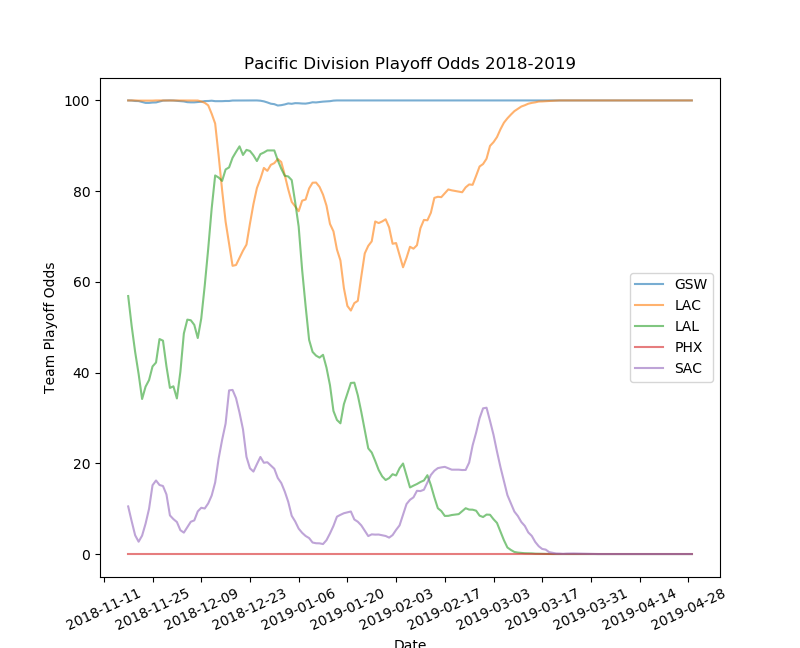
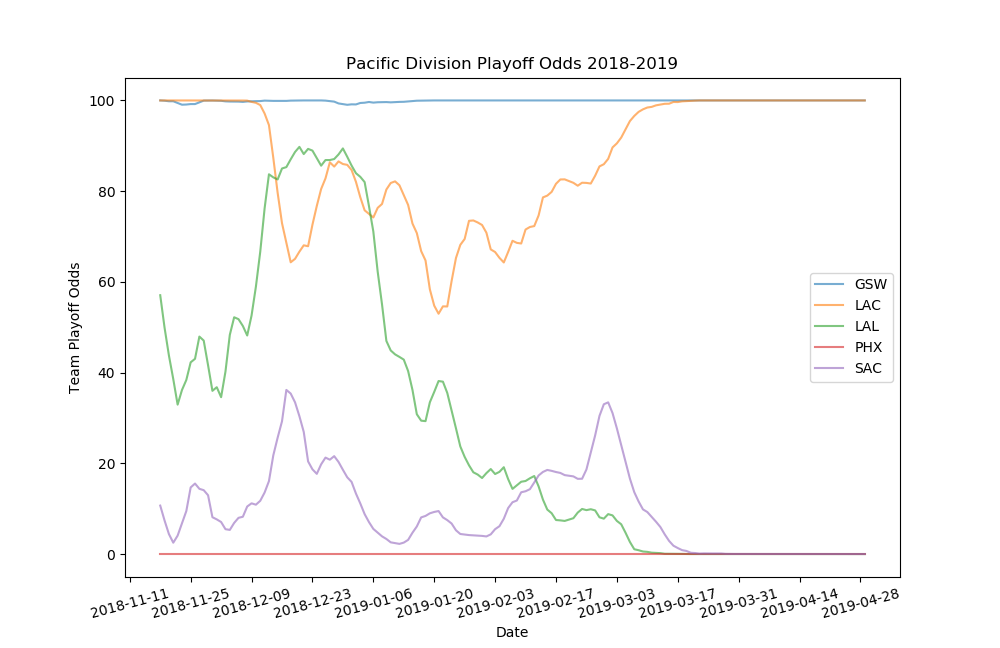
revising README with sample table

diff --git a/prediction_table.py b/prediction_table.py
@@ -128,9 +128,9 @@ def playoff_odds_print(team_results):
 #Print your results:
 
 if __name__=="__main__":
-    start_datetime = datetime(2006,10,1)
-    end_datetime = datetime(2007,4,30)
-    season_year = 2007
+    start_datetime = datetime(2018,10,1)
+    end_datetime = datetime(2019,1,1)
+    season_year = 2019
     #the following mode is a "standard test mode" - enter start of season and last known game
     #then predict remaining games.
     results = playoff_odds_calc(start_datetime, end_datetime, season_year)

diff --git a/plot_season_odds.py b/plot_season_odds.py
@@ -55,7 +55,7 @@ while b < end:
     
 odds_array = np.asarray(odds_list)
 
-plt.figure(figsize=(8,8))
+plt.figure(figsize=(10,10))
 plt.ylim(-5,105) #so 100 shows up on the graph, and 0 (thanks V.)
 
 #Get team data
@@ -75,6 +75,6 @@ plt.xlabel('Date')
 plt.ylabel('Team Playoff Odds')
 plt.title(division_name+' Division Playoff Odds '+str(season_year-1)+'-'+str(season_year))
 plt.legend()
-plt.xticks(rotation=25)
+plt.xticks(rotation=15)
 plt.savefig('test.png')
 plt.show()

diff --git a/README.md b/README.md
@@ -3,9 +3,51 @@
 ## Summary 
 A set of scripts to calculate ratings for teams, based on point differential and strength of schedule, and then use those ratings to determine playoff odds over a given season. 
 
+	
+	Playoff odds for the 2019 season as of Jan 01 2019
+	============  =============  ===========  ===========
+	Conference    Team           Avg. Wins    Playoff %
+	============  =============  ===========  ===========
+	E             Bucks          63.9         100.0%
+	E             Raptors        58.9         100.0%
+	E             Pacers         56.4         100.0%
+	E             Celtics        54           100.0%
+	E             76ers          47.7         100.0%
+	E             Hornets        42           98.4%
+	E             Heat           39.3         95.6%
+	E             Nets           34.5         48.1%
+	E             Pistons        34.1         46.7%
+	E             Magic          31.1         10.1%
+	E             Wizards        27.4         1.1%
+	E             Bulls          19.6         0.0%
+	E             Hawks          19.4         0.0%
+	E             Knicks         18.4         0.0%
+	E             Cavaliers      15.9         0.0%
+	W             Nuggets        57.3         100.0%
+	W             Thunder        54.1         99.7%
+	W             Warriors       53.9         99.8%
+	W             Jazz           48.4         84.4%
+	W             Clippers       47.7         79.5%
+	W             Lakers         47.7         83.8%
+	W             Rockets        47.3         78.4%
+	W             Trail Blazers  46.5         71.1%
+	W             Spurs          45.9         61.3%
+	W             Kings          41.3         11.6%
+	W             Pelicans       41.2         13.4%
+	W             Grizzlies      41           11.1%
+	W             Mavericks      39           3.7%
+	W             Timberwolves   38.1         2.2%
+	W             Suns           18           0.0%
+	============  =============  ===========  ===========
+
+
+*Sample odds table*
+
+
 ![Playoff odds for Pacific Division, 2019](README_example.png) 
 
 *Sample odds graph*
+
 
 Main scripts are as follows:
 
@@ -35,7 +77,6 @@ libarmadillo-dev
 libsqlite3-dev  
 
 ## To Do
-Add an example of the output table to README  
 Improve markdown formatting of README (e.g., link to all mentioned libraries)  
 Rearrange structure of library (move code one level down into "src"  
 Write manual test descriptions  
